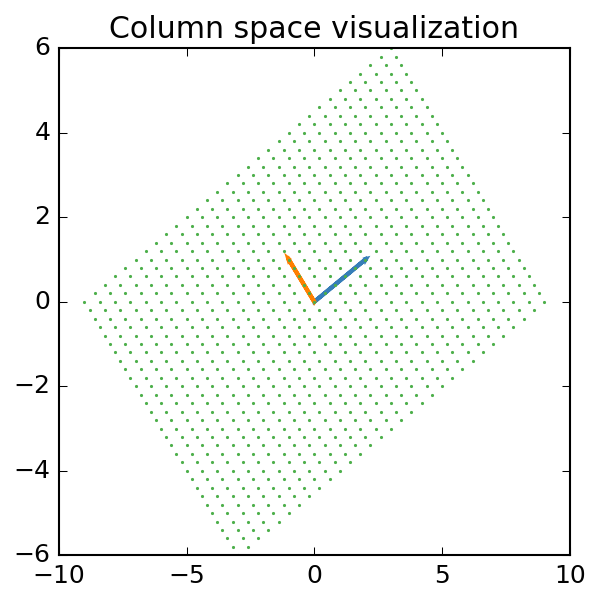
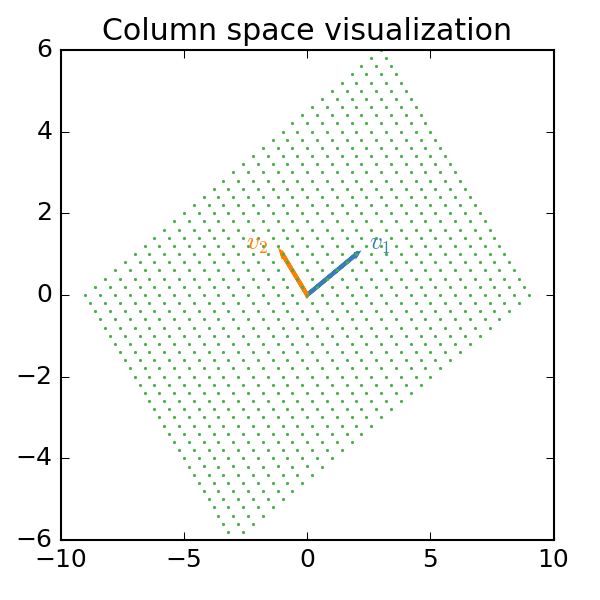
updated column space visualization

Changed region(s): [[0.03, 0.03, 0.99, 0.99]]

diff --git a/code/two-d-systems.py b/code/two-d-systems.py
@@ -59,7 +59,7 @@ plt.grid(True)
 # uncomment below to save plot
 #plt.savefig("figures/2d-column-picture.png", dpi=150)
 
-# Demo 3: Visualizing how linear combinations of two vectors span a plane
+# Demo 3: Visualizing how the column space of a 2-by-2 matrix spans the 2d plane
 v1 = np.array([2, 1])
 v2 = np.array([-1, 1])
 a = np.column_stack((v1, v2))
@@ -74,6 +74,8 @@ plt.clf()
 plt.plot(lc[0], lc[1], ".", color="#4daf4a", ms=2)
 plt.arrow(0, 0, v1[0], v1[1], color="#377eb8", lw=2)
 plt.arrow(0, 0, v2[0], v2[1], color="#ff7f00", lw=2)
+plt.text(2.5, 1.1, r"$v_1$", color="#377eb8")
+plt.text(-2.5, 1.1, r"$v_2$", color="#ff7f00")
 plt.title("Column space visualization")
 # uncomment below to save plot
 #plt.savefig("figures/2d-column-space.png", dpi=150)
